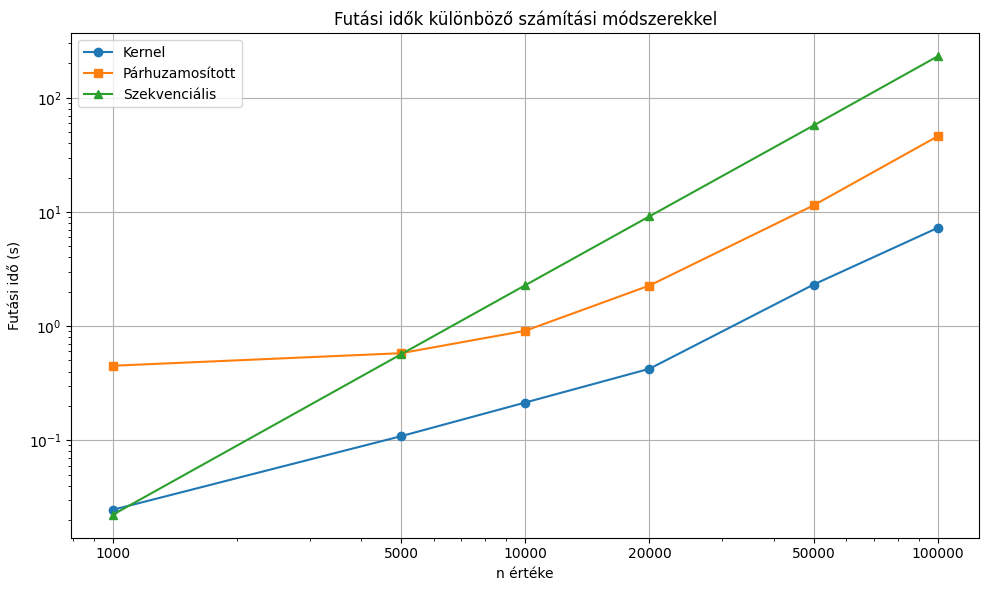
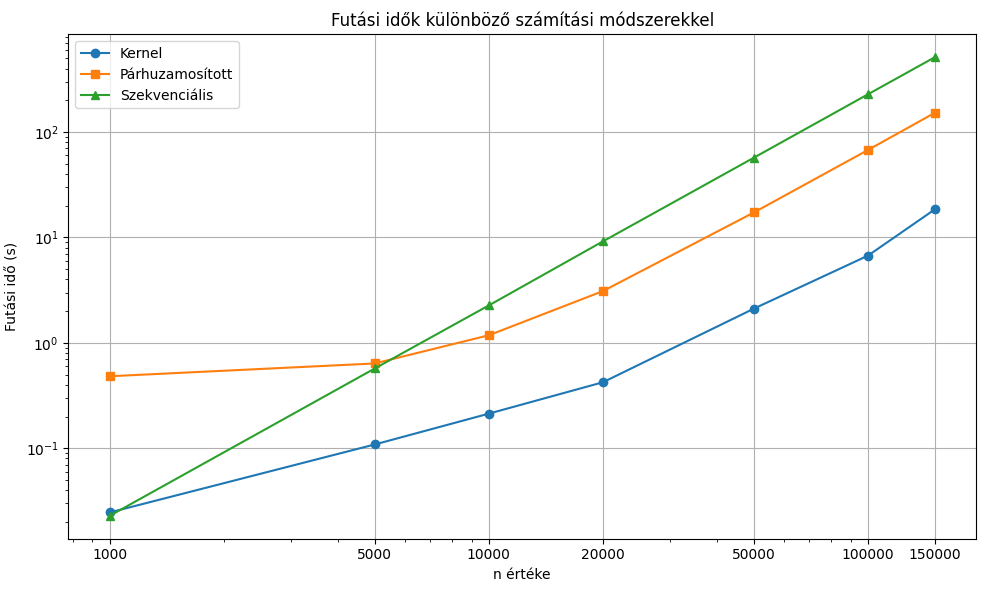
maybe done

diff --git a/beadando/maclaurin_sin.py b/beadando/maclaurin_sin.py
@@ -94,8 +94,8 @@ def seq_sin_maclaurin(x, n):
 
 def main():
     x = 1.0
-    n_values = [1000, 5000, 10000, 20000, 50000, 100000]
-    thread_count = 7
+    n_values = [1000, 5000, 10000, 20000, 50000, 100000, 150000]
+    thread_count = 4
 
     kernel_times = []
     para_times = []
@@ -133,6 +133,10 @@ def main():
     plt.xticks(n_values, labels=n_values)
     plt.tight_layout()
     plt.show()
+
+    for i in range(len(n_values)):
+        print(
+            f"n = {n_values[i]}:\n\tKernel: {kernel_times[i]}\n\tPárhuzamosított: {para_times[i]}\n\tSzekvenciális: {seq_times[i]}")
 
 
 if __name__ == "__main__":

diff --git a/README.md b/README.md
@@ -1,0 +1,72 @@
+# Név: Nagy Máté
+
+## Neptun: U3ROFS
+
+## Téma: Maclaurin series
+
+### Leírás:
+
+A projekt célja a **sin(x)** függvény közelítésének sebességének növelése volt a Maclaurin-sor használatával, kihasználva a párhuzamosítás előnyeit. Három különböző megközelítést vizsgáltunk meg a közelítés gyorsaságának fokozása érdekében, az alábbiak szerint:
+
+Az egyes megközelítések teljesítményét különböző n értékek mellett vizsgáltuk meg, ahol n a Maclaurin-sor tagjainak számát jelöli. A vizsgálatok célja az volt, hogy bemutassuk, hogyan javítható a sin(x) függvény közelítésének sebessége a számítási munka megfelelő elosztásával.
+
+- **Szekvenciális megközelítés**: Ebben az esetben a Maclaurin-sor összes tagjának kiszámítását egyetlen számítási szálon hajtottuk végre, egymás után. Ez a hagyományos, lineáris módszer szolgál alapként a többi megközelítés teljesítményének összehasonlításához.
+
+- **Párhuzamosítás több szálon**: A második megközelítésben a Maclaurin-sor kiszámítását több szálon végeztük el, kihasználva a modern többmagos processzorok képességeit. Ezáltal a különböző sorozat tagok számítása egyszerre történhetett, jelentősen csökkentve a teljes kiszámítási időt.
+
+- **Párhuzamosítás intervallumokra felosztással és számítás OpenCL kernelen**: A harmadik módszer tovább finomítja a párhuzamosítást azáltal, hogy az összegzést végző műveleteket intervallumokra osztja, és ezeket az intervallumokat egyidejűleg számítja ki az OpenCL kernelek segítségével. Ez a megközelítés kihasználja a grafikus processzorok (GPU-k) párhuzamosítási képességeit, ami lehetővé teszi a rendkívül nagy számítási teljesítmény elérését.
+
+## Eredmények:
+
+![Eredmeny](beadando/result.png "Eredmény")
+
+<table>
+    <tr>
+        <th>N</th>
+        <th>Kernel (s)</th>
+        <th>Párhuzamos (s)</th>
+        <th>Szekvenciális (s)</th>
+    </tr>
+    <tr>
+        <td>1000</td>
+        <td>0.0246</td>
+        <td>0.4821</td>
+        <td>0.0228</td>
+    </tr>
+    <tr>
+        <td>5000</td>
+        <td>0.1085</td>
+        <td>0.6375</td>
+        <td>0.5711</td>
+    </tr>
+    <tr>
+        <td>10000</td>
+        <td>0.2130</td>
+        <td>1.1805</td>
+        <td>2.2670</td>
+    </tr>
+    <tr>
+        <td>20000</td>
+        <td>0.4229</td>
+        <td>3.0998</td>
+        <td>9.1867</td>
+    </tr>
+    <tr>
+        <td>50000</td>
+        <td>2.1115</td>
+        <td>17.2688</td>
+        <td>57.1633</td>
+    </tr>
+    <tr>
+        <td>100000</td>
+        <td>6.7256</td>
+        <td>67.6507</td>
+        <td>228.4678</td>
+    </tr>
+    <tr>
+        <td>150000</td>
+        <td>18.4596</td>
+        <td>152.2810</td>
+        <td>513.1467</td>
+    </tr>
+</table>
